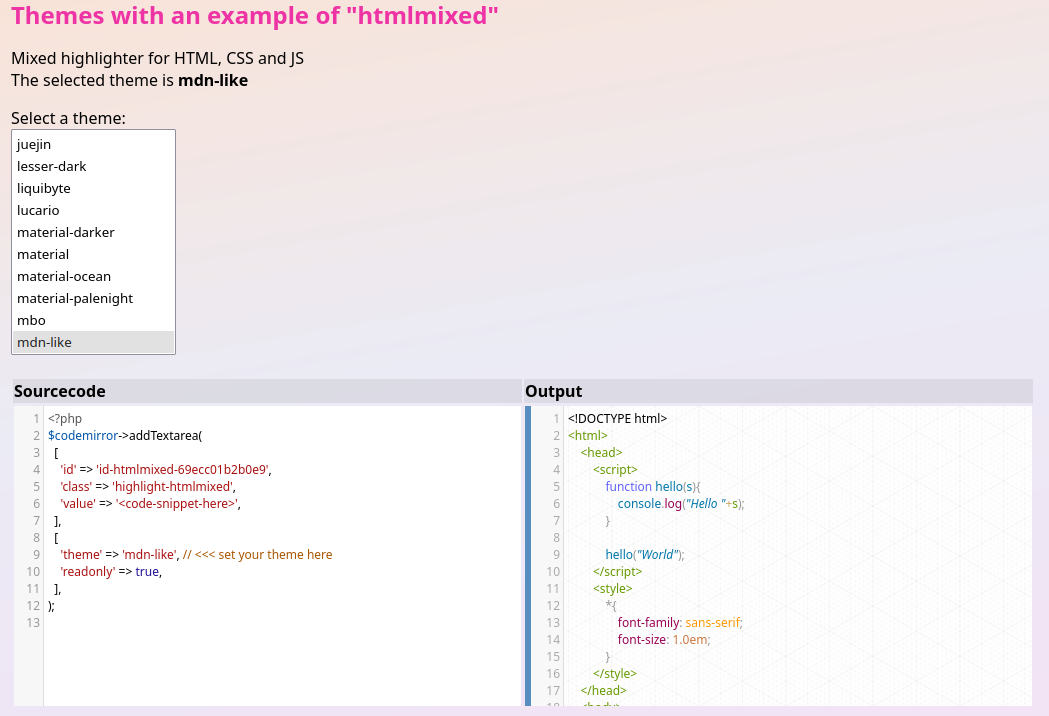
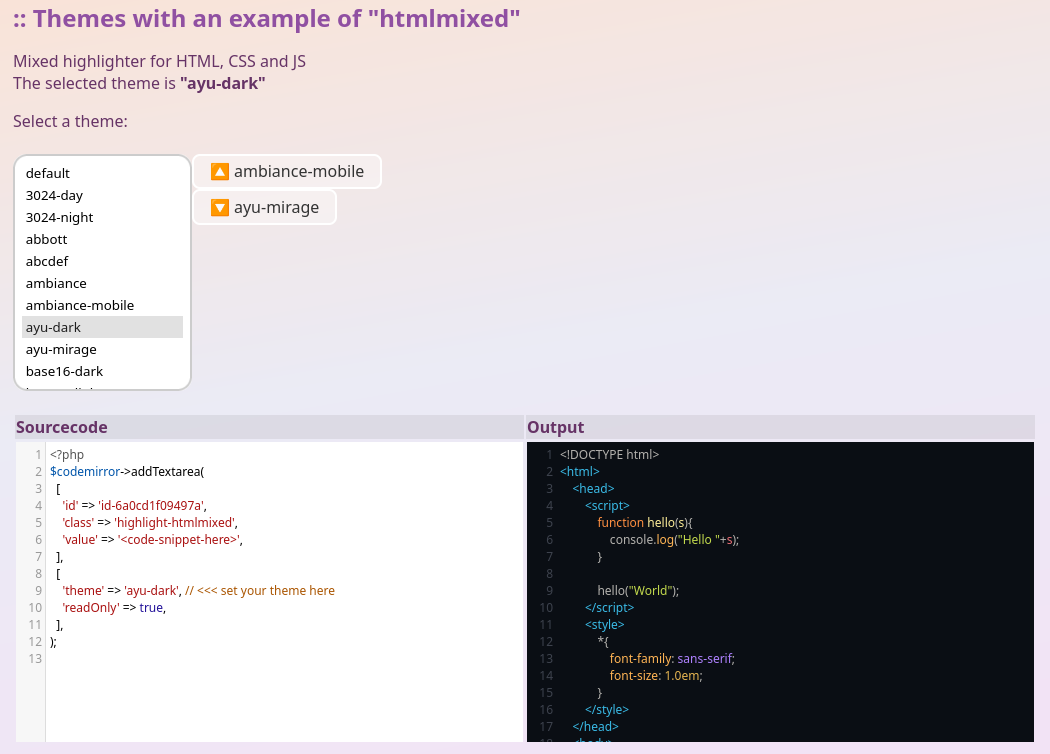
update docs

Changed region(s): [[0.0, 0.1536, 1.0, 1.0], [0.0, 0.0, 0.4881, 0.1229]]

diff --git a/docs/40_Usage.md b/docs/40_Usage.md
@@ -107,14 +107,14 @@ require_once '[webroot]/vendor/php-codemirror/classes/cm-helper.class.php';
 $codemirror=new cmhelper();
 
 $htmlbody=$codemirror->addTextarea(
-            [
-                'class' => 'highlight-htmlmixed',
-                'value' => '<your sourcecode to highlight>',
-            ],
-            [
-                'readOnly' => true,
-            ]
-        );
+    [
+        'class' => 'highlight-htmlmixed',
+        'value' => '<your sourcecode to highlight>',
+    ],
+    [
+        'readOnly' => true,
+    ]
+);
 
 $sCmHead=$codemirror->getHtmlHead();
 $sCmJs=$codemirror->getJs();

diff --git a/README.md b/README.md
@@ -18,9 +18,7 @@ It is a work in progress. Only a basic subset of Codemirror features is supporte
 📗 Docs: see <https://www.axel-hahn.de/docs/php-codemirror/>
 
 
-## Screenshots
-
-![alt text](docs/images/screenshot_demo_lang.png)
+## Screenshot
 
 ![alt text](docs/images/screenshot_demo_theme.png)
 

diff --git a/docs/10_Introduction.md b/docs/10_Introduction.md
@@ -10,6 +10,4 @@ This project of an PHP class was initialized to simplify the creation of a CodeM
 
 These are screenshots of the included demo:
 
-![alt text](images/screenshot_demo_lang.png)
-
 ![alt text](images/screenshot_demo_theme.png)